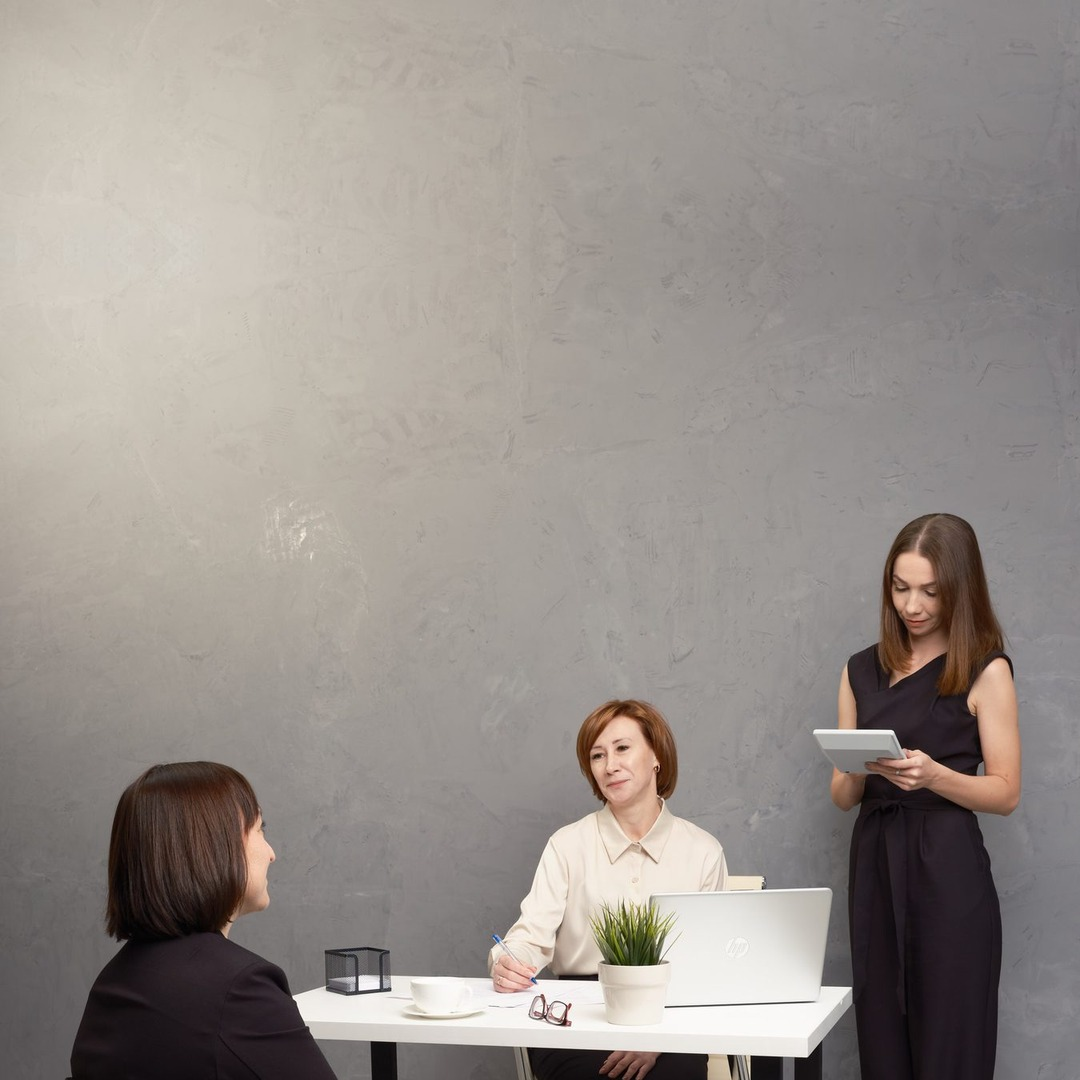
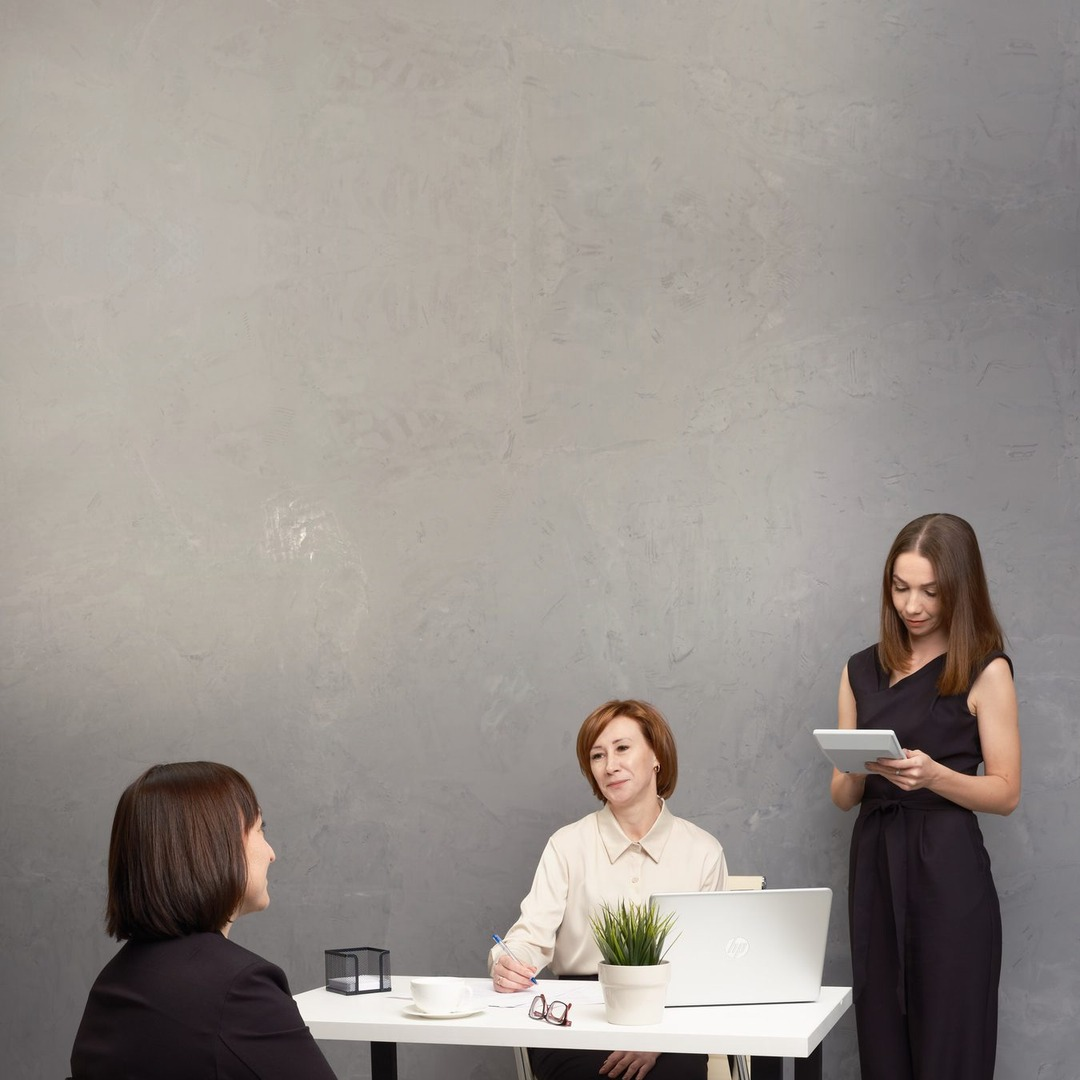
Add canonical readme v2, tokens and install notes; fix pale light patch on tax background
Claude-Session: https://claude.ai/code/session_01VZ7Hrkur6jxoGp5f6QSiLJ

Changed region(s): [[0.0, 0.0917, 0.1833, 0.3056], [0.6417, 0.275, 0.7639, 0.55]]

diff --git a/tokens/v2.css b/tokens/v2.css
@@ -1,0 +1,34 @@
+/* 1+1 Design System v2 — токены. Подробности в docs/readme-v2.md */
+:root{
+  /* цвет */
+  --paper:#F7F5F1;
+  --white:#FFFFFF;
+  --graphite:#1C1A17;
+  --stone:#6F695F;
+  --sand:#DDD5C8;
+  --champagne:#D2BE8C;
+  --crimson:#D73A61;          /* акцент: слово, цифра, черта, плашка */
+  --crimson-on-dark:#EA4C74;  /* тот же акцент на графите */
+  --olive:#807A4A;
+  --olive-bright:#ABAD58;
+  --olive-field:#8E903C;      /* фирменный зелёный: фон на весь холст */
+  --olive-field-top:#9A9C48;
+  --olive-field-bottom:#82842F;
+  --olive-field-gradient:linear-gradient(180deg,var(--olive-field-top) 0%,var(--olive-field-bottom) 100%);
+
+  /* шрифт */
+  --font:'Gilroy','Montserrat',sans-serif;
+
+  /* шкала на квадрате 1080 */
+  --fs-hero-number:250px;   /* 240–400 */
+  --fs-headline:122px;      /* 106–160 */
+  --fs-sub:44px;            /* 42–54 */
+  --fs-text:30px;           /* 28–34 */
+  --fs-label:22px;          /* 22–24, капс, +14% */
+
+  /* формы */
+  --r-plate:14px;
+  --r-card:12px;
+  --r-photo:8px;
+  --margin:96px;            /* поле на квадрате 1080 */
+}

diff --git a/docs/readme-v2.md b/docs/readme-v2.md
@@ -1,0 +1,317 @@
+# 1+1 Design System v2 — «Тихая дороговизна»
+
+**1+1** (1-plus-1.ru) — аутсорсинг бухгалтерии для малого и среднего бизнеса, Россия.
+Услуги: бухгалтерский аутсорсинг, финансовый и налоговый консалтинг, юридическое
+сопровождение, управленческий учёт, бесплатный налоговый калькулятор. Работает с 2011 года.
+37-е место из 15 000 бухгалтерских компаний России.
+
+Сайт 1-plus-1.ru · 8 (800) 600-56-86 · info@1-plus-1.ru
+
+Это единственный источник правил. Он заменяет `readme.md`, `brandbook-1plus1.md` и журнал
+правок. Правила действуют постоянно, прикреплять их к чатам не нужно.
+
+---
+
+## 0. Идея
+
+**Дорого значит тихо.** Один крупный жест, много воздуха, настоящие лица и один цвет,
+который говорит.
+
+Что объединяет удачные макеты 1+1: в каждом один герой и мало приёмов. Разнобой возникал там,
+где к герою добавлялись водяной знак, плашка на каждом слове, цветной фон, тень и иллюстрация.
+
+**Композиция первична.** Позиции логотипа, сетка и отступы не заданы. Единый стиль держится
+на качестве: тоне, воздухе, типографике и языке изображений. Оно проверяется пятью тестами (раздел 1).
+Эталоны лежат в `specimens/` и показывают уровень качества, а не шаблон для копирования.
+
+**Обязательно всегда:** логотип (готовым файлом), шрифт Gilroy, фирменная палитра,
+правило «только предоставленный текст». Всё остальное применяется по мере надобности.
+
+---
+
+## 1. Пять тестов красоты
+
+Макет проходит все пять, прежде чем считаться готовым.
+
+1. **Герой.** Прищурьтесь: виден ровно один главный объект. Это заголовок, цифра или фото.
+   Если героев два, один лишний.
+2. **Воздух.** Пустого места не меньше 40% холста (в макете без фото не меньше 50%). Оно собрано
+   в одну-две зоны, а не рассыпано клочками. **Баланс по вертикали:** у текстового блока без фото
+   центр стоит на 52–58% высоты; зазор под блоком не меньше зазора между логотипом и блоком.
+   Блок, прижатый к низу при пустом верхе, нарушает баланс.
+3. **Голос одного цвета.** Акцент один: малиновый, на одном слове, цифре, черте или плашке.
+   Два акцента на макет не нужны.
+4. **Убери.** Уберите любой элемент. Если макет не пострадал, элемент лишний.
+5. **Лента.** Положите макет рядом с двумя соседними. Он должен выглядеть как из той же серии:
+   тон, насыщенность и плотность те же.
+
+**Не делаем:** тени и объёмные иллюстрации, стрелки роста и столбики, два водяных знака, цветные
+плашки на каждом слове, затемнение всего фото ради контраста текста, яркие градиентные заливки.
+
+---
+
+## 2. Цвет
+
+| Токен | Hex | Роль |
+|---|---|---|
+| `paper` | `#F7F5F1` | основной светлый фон |
+| `white` | `#FFFFFF` | карточки на `paper` |
+| `graphite` | `#1C1A17` | тёмный фон и основной текст (тёплый чёрный) |
+| `stone` | `#6F695F` | приглушённый текст |
+| `sand` | `#DDD5C8` | тонкие линии, рамки карточек |
+| `champagne` | `#D2BE8C` | металл: линии и узор на графите (цвет `pattern-2`) |
+| `crimson` | `#D73A61` | **акцент**: слово, цифра, черта, плашка |
+| `crimson-on-dark` | `#EA4C74` | тот же акцент на графите (светлее для контраста) |
+| `olive` | `#807A4A` | тон из печати: вторичные элементы, не акцент |
+| `olive-bright` | `#ABAD58` | прежний оливковый, редкий |
+| `olive-field` | `#8E903C` | **фирменный зелёный** для фона на весь холст: градиент `#9A9C48` → `#82842F` сверху вниз |
+
+**Регистры**
+- **Светлый** (`paper`, текст `graphite`) — основной, около 60% ленты.
+- **Фото** — около 25%.
+- **Графит** (`graphite`, светлый текст, линии `champagne`, акцент `crimson-on-dark`) — около 15%:
+  итоги, события, новости.
+- **Зелёный** (`olive-field`) — осознанное исключение, примерно каждый шестой пост. Текст белый,
+  метка белая 85%. Малиновый **не пишется** по зелёному (сливается); акцент ставится малиновой
+  плашкой с белым текстом.
+
+**Контраст.** Малиновый и оливковый не годятся для мелкого текста: ими пишут крупное жирное
+(от 24 px) или рисуют линии. Мелкий текст — `graphite` на светлом или белый на тёмном и на цвете.
+
+---
+
+## 3. Типографика
+
+Gilroy — единственный шрифт. Файлы Light–Extrabold в `assets/fonts/`.
+
+| Голос | Начертание | Размер на 1080 | Трекинг | Интерлиньяж |
+|---|---|---|---|---|
+| **Герой-цифра** | Bold / Extrabold | 240–400 | −3,5% | 0,86 |
+| **Заголовок** | SemiBold / Bold | 106–160 | −1,5…−3,5% | 0,96–1,05 |
+| **Подзаголовок** | Medium / SemiBold | 42–54 | 0 | 1,25 |
+| **Текст** | Regular | 28–34 | 0 | 1,4 |
+| **Метка** | Medium, капс | 22–24 | +14% | 1 |
+
+- **Метка** — короткая подпись над заголовком («НОВОЕ В ЗАКОНЕ»), перед ней малиновая или белая
+  черта 64×3 px. Только если категория дана в задаче.
+- **Заголовок** — со строчных. Капс используется только в метках.
+- **Три размера на макет:** герой, второй уровень, мелкий. Четвёртый — признак перегруза.
+- **Акцент в заголовке** — цветом слова. Подчёркивание и сплошное выделение каждого слова
+  не используются.
+- **Длина строки.** Заголовок — две-три строки, в каждой кроме последней не меньше 15 знаков.
+- **Разбивка на уровни.** Фраза с двоеточием или тире делится на заголовок и подзаголовок,
+  разделитель убирается. Слова не добавляются и не удаляются.
+- **Крупный типографический макет.** Герой — заголовок, который занимает 85–90% ширины: «Закон о
+  цифровых платформах» Bold 146 px на зелёном. Переносить строку «чтобы влезло» нельзя, кегль
+  подбирается под самую длинную строку.
+
+---
+
+## 4. Плашка
+
+Плашка — крупный акцент макета, не декор. **Не больше одной на макет.** Сплошная `crimson`, текст
+белый (контраст 4,6:1), радиус 14–16 px.
+
+Когда уместна:
+- подзаголовок-вопрос на фото, где малиновый текст по серому снимку нечитаем (эталон `specimens/tax.png`);
+- дата или число как герой на зелёном или графите (эталон `specimens/law-olive.png`).
+
+Когда не нужна: на светлом фоне, где малиновый текст читается сам.
+
+---
+
+## 5. Язык изображений
+
+Макет держится на **одном** из шести средств; остальные ему помогают.
+
+| № | Средство | Когда |
+|---|---|---|
+| 1 | **Фото команды** | тема про компанию, услугу, людей |
+| 2 | **Фрагмент фото** | нужен предмет, а не люди: руки, калькулятор, документ, флэтлей |
+| 3 | **Типографика-герой** | цифра, дата, вопрос, одно слово |
+| 4 | **Линейный знак** | тема без фото: закон, деньги, мир, документы |
+| 5 | **Графит с узором** | премиальные, итоговые, партнёрские посты |
+| 6 | **Стоковое фото** | нужен сюжет, которого нет у команды (`assets/stock/`) |
+
+### 5.1. Линейный знак
+Тематический знак рисуется **тонкой линией** (1,5–2 px), одним цветом: прозрачность 8–14% на светлом,
+14–22% на графите. Заливки допустимы только как один крупный тональный знак в цвете `olive-field`
+(рубль в углу макета «Итог в цифрах»). Не больше одного знака на макет; с фото в кадре не сочетается.
+Набор мотивов: каркасный глобус, знак рубля, молоток, солнце, лист реестра, сетка координат,
+концентрические окружности, печать. Рисуется кодом (SVG), одной манерой линии.
+
+### 5.2. Узор и печать
+- `pattern-2.png` (champagne, прозрачный фон) — основной узор. На графите: прозрачность 13%,
+  затухание маской к одному краю. На зелёном: яркость 1,6, прозрачность 14%.
+- `badge-round.png` (печать) — только на светлом фоне, один раз.
+- `pattern-1.png` (малиновый и оливковый) — только печатные носители, не посты.
+
+### 5.3. Фрагмент
+Берётся из фото в `assets/team/`: крупно, на одну-две трети холста, без рамки и тени, прямой край или
+радиус 8 px. Круг не используется.
+
+---
+
+## 6. Фото
+
+**Нельзя:** подменять фото сотрудников чужими; ставить текст на лица и руки; затемнять весь кадр
+ради читаемости (он грязнеет); класть цветную вуаль на всю площадь.
+
+**Можно и нужно:**
+- Пользовательское фото вставляется как есть.
+- **Текст ставится в спокойную зону** кадра: стена, светлый фон. Серия `concrete` с пустым верхом
+  снята именно для этого.
+- **Продление стены.** Если воздуха над людьми мало, а стена ровная, верх кадра продлевается
+  зеркальным отражением верхних 250–330 px (шов не виден). Только там, где над головами никого нет.
+  После продления выравнивается свет на стене в зоне текста (деление на размытую яркость,
+  множитель 0,8–1,2): иначе зеркальное отражение даёт бледное световое пятно за заголовком.
+- Если для читаемости нужен контраст, используйте плашку (раздел 4), а не затемнение.
+- Лёгкий градиент от верхнего края (графит 0,3 → 0) допустим только под белым логотипом и заголовком.
+- Края: на весь холст или радиус 8 px. Круглые портреты, радиус 20 px и тени не используются.
+- Серия `color` (розовый, бирюзовый) приводится к спокойной гамме: `saturate(0.88)`.
+  Серии `concrete`, `plaster`, `studio` не трогаются.
+- Серия `office` берётся ближним кадром.
+
+Библиотека — `assets/team/`, описание кадров и свободных зон — `docs/team-photos.md`.
+Запрос формулируется сценой: «двое за ноутбуком на бетонной стене», «флэтлей со знаками 1+1».
+
+---
+
+## 7. Карточки и списки
+
+- Карточка плоская: белая на `paper`, рамка `sand` 1 px, радиус 12 px, **без тени**.
+- Одна тёмная карточка (`graphite`) среди светлых выделяет главное.
+- Крупная цифра в карточке — `graphite`; цвет только у одной цифры в макете.
+- **Маркер списка** — малиновый плюс (отсылка к знаку «1+1»). Между пунктами тонкая линия `sand`
+  или воздух, но не оба сразу.
+
+---
+
+## 8. Ритм ленты
+
+Три соседних поста складываются в строку. Пример: **светлый с цифрой — фото команды — графит с датой**.
+
+Одинаково у всех: Gilroy, `paper` / `graphite`, малиновый как голос, тон фото, логотип.
+Меняется: герой (цифра, фото, слово), плотность текста, регистр.
+
+Не ставить подряд: два графита, два зелёных, два макета с линейным знаком.
+
+---
+
+## 9. Быстрые рецепты
+
+Выбираем рецепт, наполняем, проверяем пятью тестами. Размеры даны для квадрата 1080×1080.
+
+| Рецепт | Когда | Герой | Акцент | Эталон |
+|---|---|---|---|---|
+| **R1 Вопрос на фото** | налоги, проверки, консультации | фото `concrete-*` + заголовок на стене | подзаголовок на малиновой плашке | `specimens/tax.png` |
+| **R2 Цифра** | итоги, рейтинги | число 250 px, малиновое | подпись и знак | `specimens/digits.png` |
+| **R3 Список** | услуги, чек-листы | заголовок + 3–5 пунктов | плюсы-маркеры | — |
+| **R4 Новость** | законы, события, итоги | заголовок 122–146 px + дата | малиновая дата или плашка | `law.png` (графит), `law-olive.png` (зелёный) |
+| **R5 Команда** | знакомство, найм | фото `studio-0484`, `plaster-*` | слово в заголовке | — |
+| **R6 Тезис** | цитата, мысль дня | одна фраза 106–146 px | ключевое слово | — |
+
+Как ставить задачу: (1) текст, (2) формат, (3) герой — фото (какая тема), цифра или слово.
+Остальное решают тесты красоты.
+
+---
+
+## 10. Форматы
+
+**Основной — квадрат 1080×1080** (лента). Поля не меньше 8% стороны; логотип ставится там, где
+композиции удобно, и не накладывается на лица, руки и текст.
+
+- **Квадрат 1080×1080** — базовый, годятся все рецепты.
+- **Сторис 1080×1920** — вертикаль, мало текста; снизу не менее 220 px свободно.
+- **Презентация 1920×1080** — горизонталь, плотнее; опора `templates/pitch-deck/`.
+- **4:5 (1080×1350)** — допустим, если нужен вертикальный пост; пропорции пересчитываются.
+
+Один контент пересобирается между форматами, суть сохраняется.
+
+---
+
+## 11. Логотип
+
+Логотип вставляется **готовым файлом**. Перерисовывать, набирать «1+1» текстом и воссоздавать
+кодом нельзя.
+
+| Файл | Что | Когда |
+|---|---|---|
+| `assets/logo-full.png` | знак + «АУТСОРСИНГ БУХГАЛТЕРИИ», цветной | светлый фон, самостоятельные материалы |
+| `assets/logo-full-white.png` | то же, белый | графит, зелёный, фото |
+| `assets/logo.png` | только знак, цветной | светлый фон, мелкие размеры |
+| `assets/logo-mark-white.png` | только знак, белый | тёмный фон, внутренние слайды карусели |
+
+- Цветной логотип на зелёном и малиновом запрещён: знак состоит из этих цветов.
+- Задаётся одна величина (ширина или высота), вторая `auto`. Ширина полного логотипа 196–210 px
+  на квадрате 1080.
+- Запрещено менять цвета, добавлять обводку, тень, градиент, поворачивать, обрезать, разделять
+  знак и дескриптор.
+- Свободное поле вокруг — не меньше ширины цифры «1» знака.
+
+---
+
+## 12. Текст на макете
+
+**Используется только текст, явно предоставленный пользователем.** Это касается всех элементов:
+заголовков, подзаголовков, бейджей, тегов, меток, подписей, кнопок, футера.
+
+- Не добавляй бейджи, теги, категории, которых пользователь не давал. Если элемент уместен,
+  спроси, нужен ли он и что в нём написать.
+- Без запроса допустим только фиксированный брендинг: логотип и слоган компании. Контакты и домен —
+  контент; добавляются в форматах с футером (лендинг, презентация, бланк, визитка, КП), в постах для
+  соцсетей — по явному запросу.
+- Нет нужного текста — плейсхолдер в скобках `[Заголовок]`. Правдоподобную выдумку не пиши.
+- Не выдумывай факты, цифры, условия.
+- **Самопроверка перед выдачей:** сверь все текстовые элементы макета со списком, который дал
+  пользователь. Лишнее удали. При пересборке проверь, что ничего не потеряно.
+- Эмодзи не используются.
+- При редактировании не «улучшай» копирайтинг: меняй только вёрстку, стили и структуру.
+
+**Тон.** Прямой и уверенный, без жаргона, короткие предложения. От клиента: «ваше спокойствие».
+«Мы», а не «я». Тёплый профессионализм. Утверждения подкреплены цифрами. Восклицательные знаки
+редко. Тире (—) для акцента.
+
+**Переносы.** Неразрывным пробелом связываются: односложные предлоги и союзы (в, с, к, о, у, на, по,
+из, за, до, и, а, но); число и единица («500 тысяч», «15 лет»); число и слово в дате («1 октября»,
+«2026 года»); сокращения («г. Барнаул»). Акцентное выделение не разрывается переносом.
+
+---
+
+## 13. Иконки
+
+Закрытый набор из пяти: Call, Chart, Mail, Secure, Verified. Сплошные, одноцветные, `currentColor`,
+18–24 px, SVG (`components/icons/`). Новые не изобретать, сторонние библиотеки и эмодзи не
+подключать. Нужна иконка вне набора — спроси или возьми ближайшую из пяти.
+
+---
+
+## 14. Чек-лист перед выдачей
+
+1. Пять тестов красоты пройдены (герой, воздух и баланс, один цвет, «убери», лента).
+2. Весь текст есть в запросе пользователя; ничего не потеряно.
+3. Логотип нужной версии, один размер по ширине, не наложен на лица и текст.
+4. Малиновый один (слово, цифра, черта или плашка); на зелёном малинового текста нет.
+5. Контраст мелкого текста достаточный; фото не затемнено ради него.
+6. Не больше одного декоративного средства (знак, узор, печать).
+7. Неразрывные пробелы и переносы выставлены.
+
+---
+
+## 15. Файлы
+
+```
+readme.md                    ← этот файл
+tokens/v2.css                ← цвета, шкала, радиусы
+assets/
+  fonts/                     ← Gilroy (Light–Extrabold)
+  logo*.png                  ← логотипы (раздел 11)
+  pattern-1.png, pattern-2.png, badge-round.png
+  team/                      ← 36 фото команды (concrete, plaster, studio, color, office)
+  stock/                     ← тематические фото (когда появятся)
+specimens/                   ← эталоны 1080×1080
+docs/team-photos.md          ← описание кадров и свободных зон
+components/icons/            ← 5 иконок
+templates/pitch-deck/        ← слайды
+ui_kits/website/             ← сайт
+```

diff --git a/docs/install-v2.md b/docs/install-v2.md
@@ -1,0 +1,19 @@
+# Установка v2 в проект Claude Design
+
+Правила действуют постоянно, к чатам их прикреплять не нужно.
+
+1. **`readme.md`**: заменить содержимое проекта на `docs/readme-v2.md` (целиком, не дописывать
+   в конец: часть старых правил противоречит новым).
+2. **`tokens/`**: добавить `tokens/v2.css`; старые `colors.css` и `typography.css` оставить,
+   новые правила берут значения из `v2.css`.
+3. **`assets/`**: загрузить
+   - `logo.png`, `logo-full.png`, `logo-full-white.png`, `logo-mark-white.png`;
+   - `pattern-2.png`, `badge-round.png` (`pattern-1.png` только для печати);
+   - папку `assets/team/` (36 фото), её описание: `docs/team-photos.md`.
+4. **Эталоны**: добавить `specimens/tax.png`, `law.png`, `law-olive.png`, `digits.png` как референсы
+   качества (не как шаблоны для копирования).
+5. **Проверка**: попросить Claude Design собрать новый пост по рецепту R1–R6 и прогнать его
+   по чек-листу из раздела 14.
+
+Устаревшее (в проекте можно оставить для истории): `design-system-rules.md`, `readme-patch.md`,
+`install-pending.md`, `brandbook-1plus1.md`.
